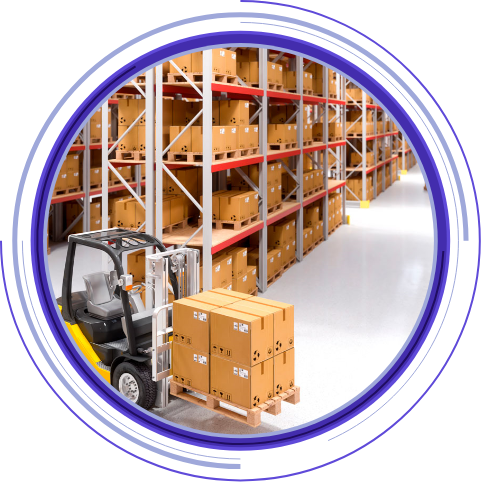
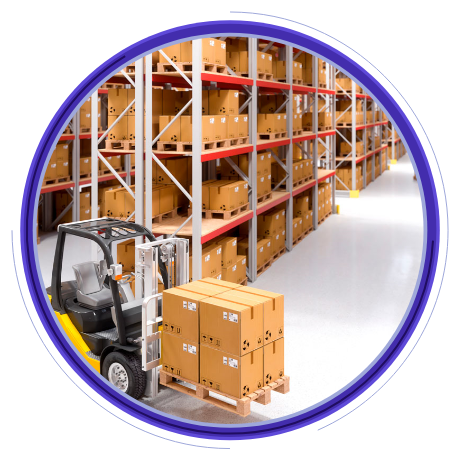
Ajuste de cover

diff --git a/src/styles/_custom.sass b/src/styles/_custom.sass
@@ -386,6 +386,19 @@ i.fa-check
 
   100%
     transform: translatey(0px)
+
+@-webkit-keyframes spin
+  from
+    -webkit-transform: rotate(0deg)
+
+  to
+    -webkit-transform: rotate(359deg)
+@-webkit-keyframes spin2
+  from
+    -webkit-transform: rotate(0deg)
+
+  to
+    -webkit-transform: rotate(-359deg)
 @keyframes float2
   0%
     transform: translatey(0px)
@@ -402,25 +415,27 @@ i.fa-check
 .banner-principal__img:before
   content: ''
   position: absolute
-  width: 83px
-  height: 49px
+  width: 450px
+  height: 450px
   z-index: 5
-  right: 30rem
-  top: 10%
+  right: 8rem
+  top: 12%
   transform: translatey(0px)
-  animation: float 6s ease-in-out infinite
-  /*background-image: url('../assets/curso/ic-head1.png')*/
+  animation: spin 3s infinite linear
+  background-image: url('../assets/curso/circle1.svg')
+  background-size: cover
 .banner-principal__img:after
   content: ''
   position: absolute
-  width: 72px
-  height: 43px
+  width: 480px
+  height: 480px
   z-index: 3
-  right: 5rem
-  top: 25%
+  right: 7rem
+  top: 10%
   transform: translatey(0px)
-  animation: float2 8s ease-in-out infinite
-  /*background-image: url('../assets/curso/ic-head2.png')*/
+  animation: spin2 3s infinite linear
+  background-image: url('../assets/curso/circle2.svg')
+  background-size: cover
 .slideInLeft
   -webkit-animation-name: slideInLeft
   animation-name: slideInLeft
